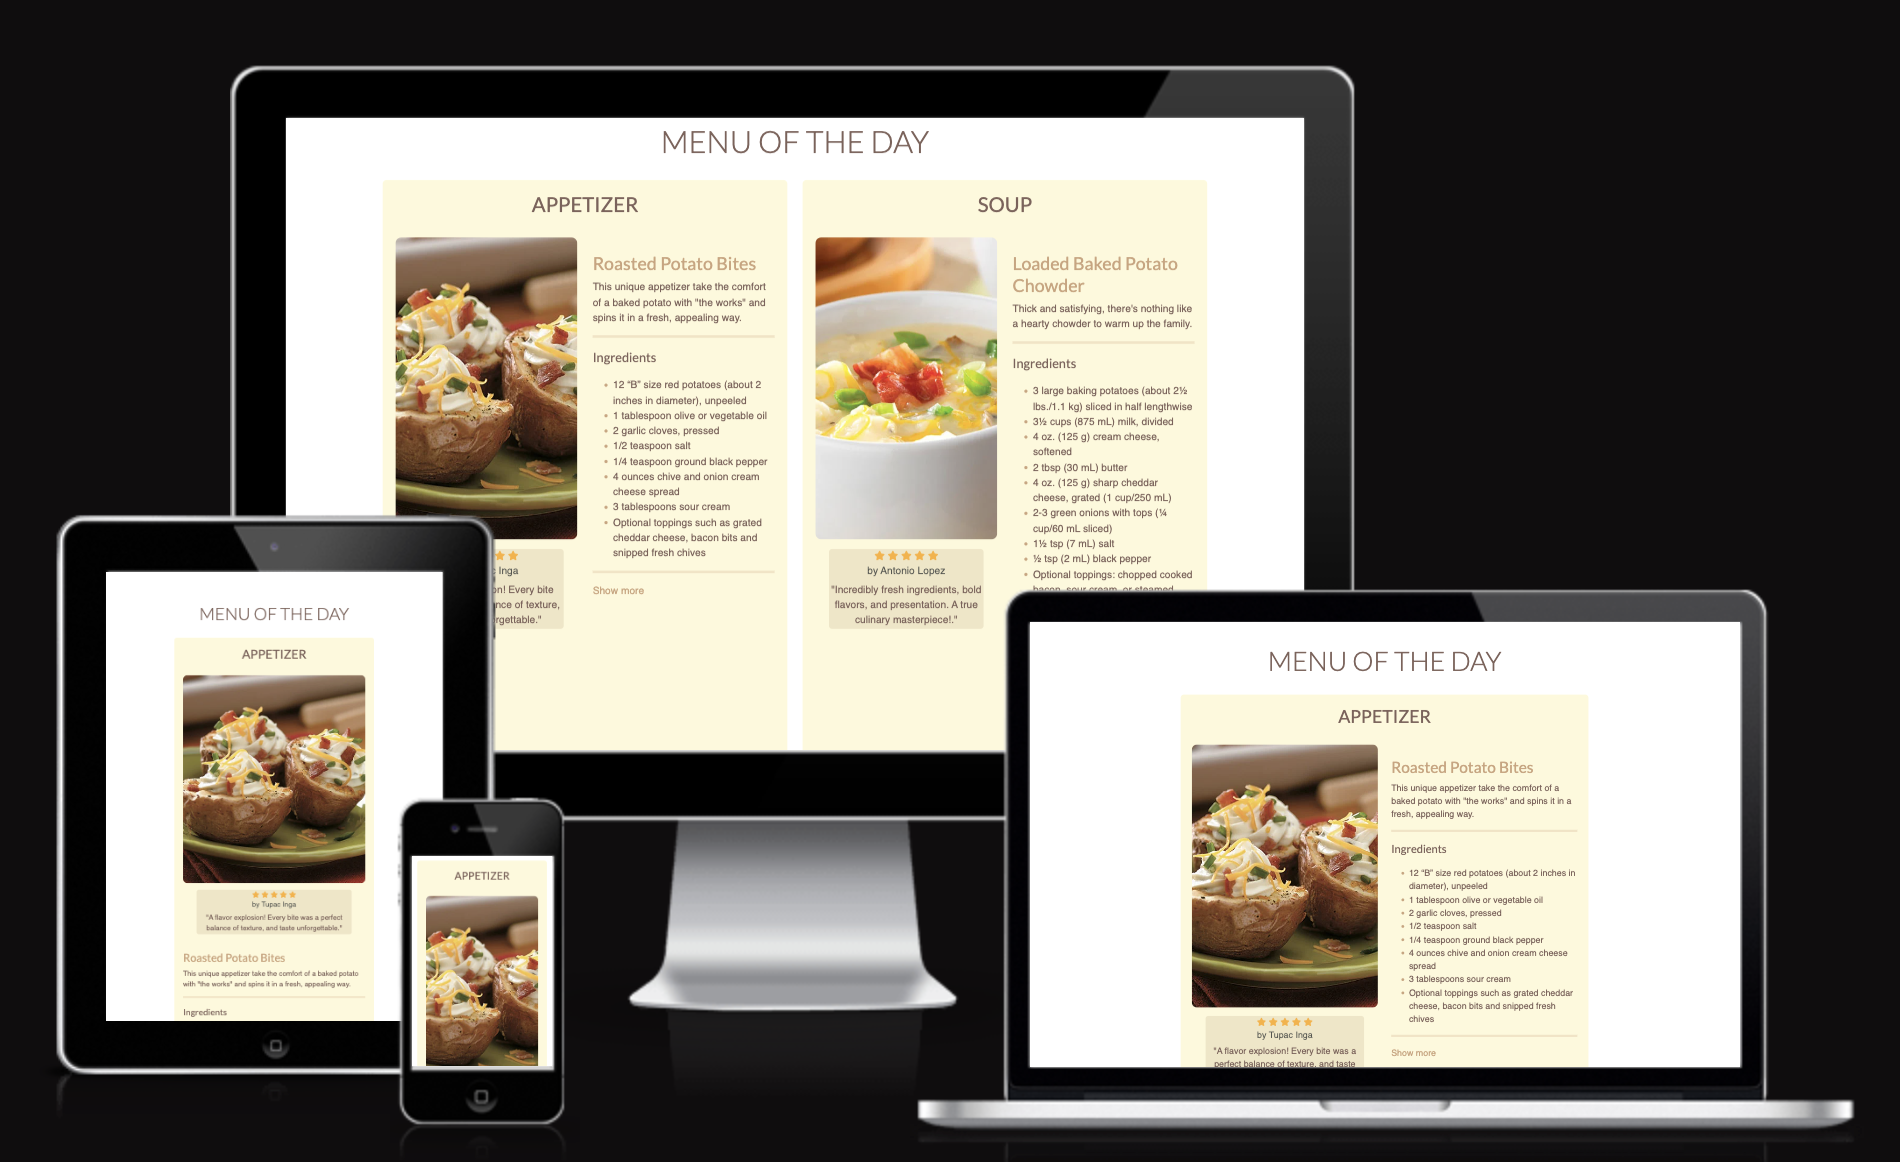
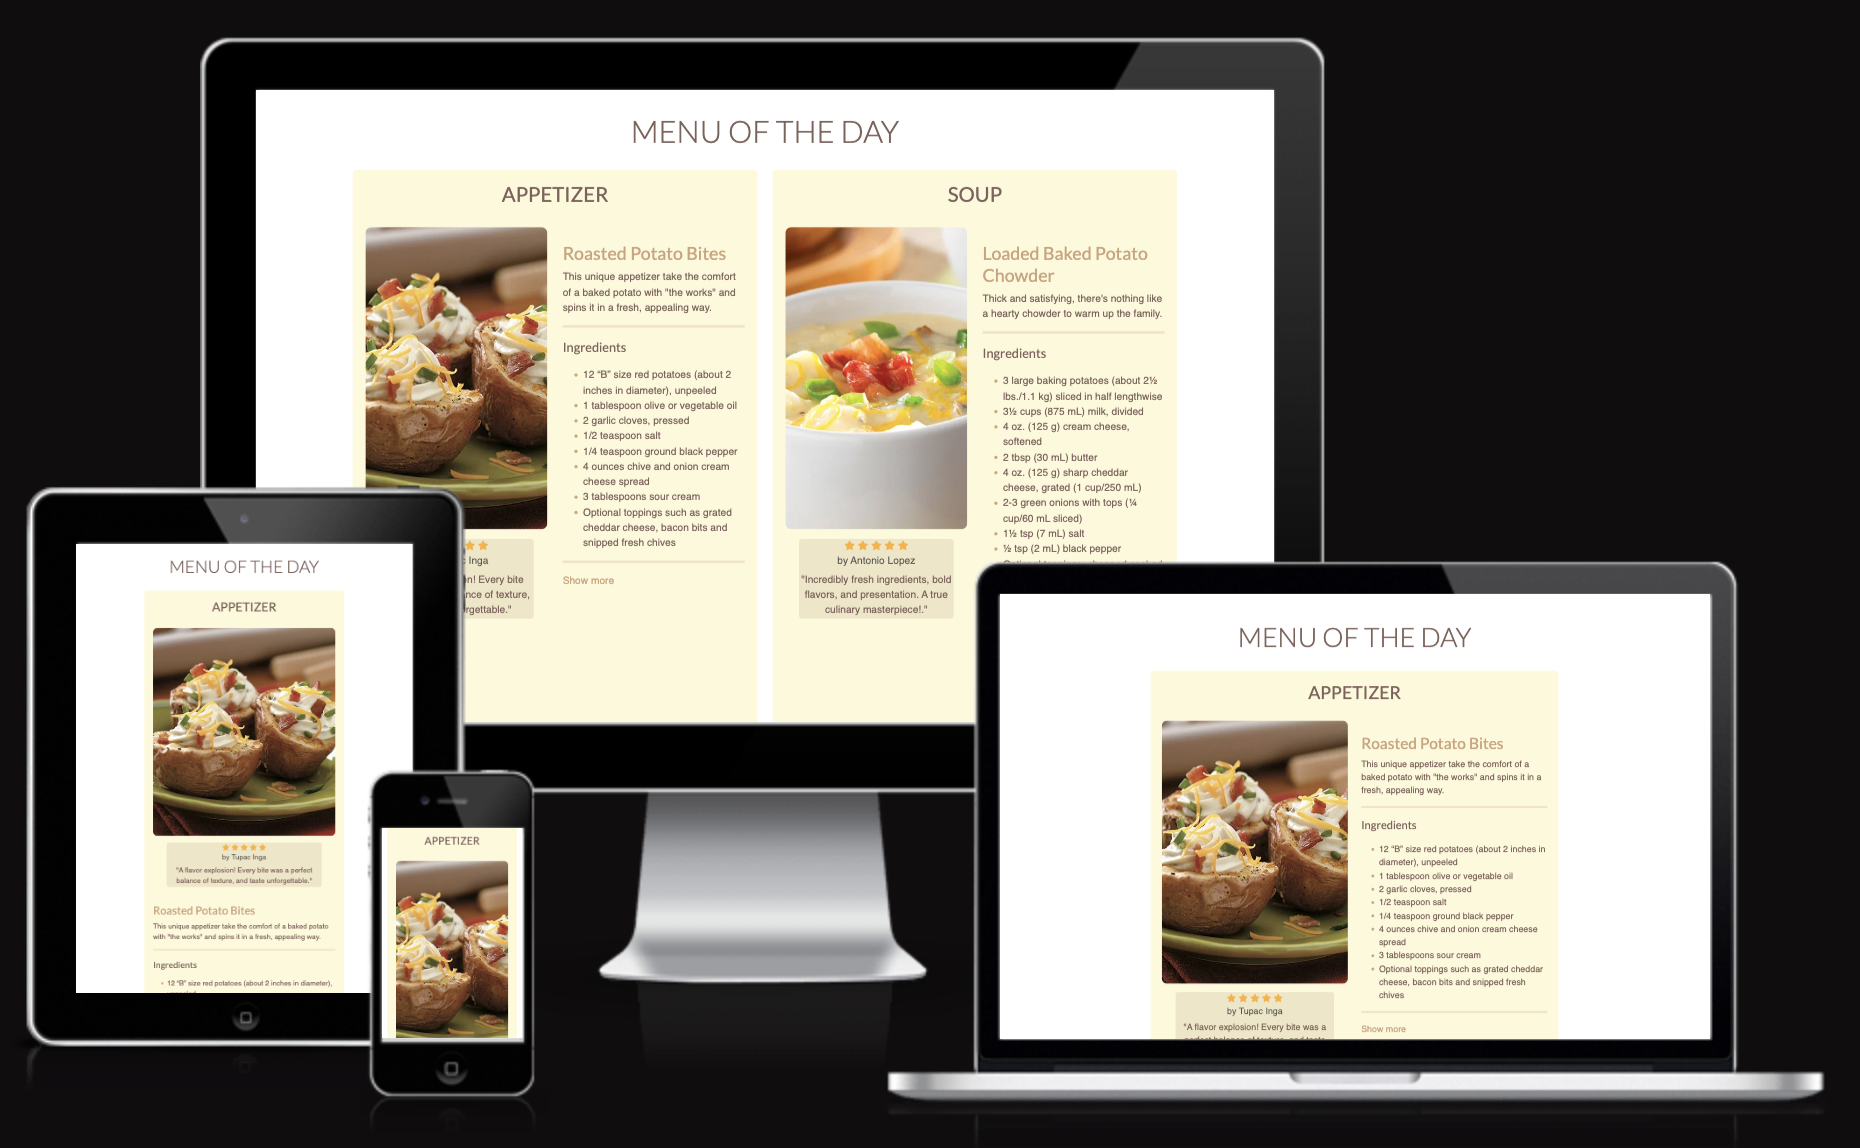
adding img to readme

Changed region(s): [[0.0, 0.0305, 0.9978, 0.9756]]

diff --git a/recipes.html b/recipes.html
@@ -110,7 +110,7 @@
 
                                 <!-- Review card -->
                                 <div class="card-body text-center">
-                                    <h5 class="card-title">
+                                    <div class="card-title">
                                         <div class="stars">
                                             <i class="fa-solid fa-star"></i>
                                             <i class="fa-solid fa-star"></i>
@@ -118,9 +118,10 @@
                                             <i class="fa-solid fa-star"></i>
                                             <i class="fa-solid fa-star"></i>
                                         </div>
-                                    </h5>
+                                    </div>
                                     <h6 class="card-subtitle mb-2 text-body-secondary">by Tupac Inga</h6>
-                                    <p class="card-text">"A flavor explosion! Every bite was a perfect balance of texture, and taste unforgettable."</p>
+                                    <p class="card-text">"A flavor explosion! Every bite was a perfect balance of
+                                        texture, and taste unforgettable."</p>
                                 </div>
                                 <!-- Finidhed Review card -->
 
@@ -212,7 +213,7 @@
                                     alt="Loaded Baked Potato Chowder">
                                 <!-- Review card -->
                                 <div class="card-body text-center">
-                                    <h5 class="card-title">
+                                    <div class="card-title">
                                         <div class="stars">
                                             <i class="fa-solid fa-star"></i>
                                             <i class="fa-solid fa-star"></i>
@@ -220,9 +221,10 @@
                                             <i class="fa-solid fa-star"></i>
                                             <i class="fa-solid fa-star"></i>
                                         </div>
-                                    </h5>
+                                    </div>
                                     <h6 class="card-subtitle mb-2 text-body-secondary">by Antonio Lopez</h6>
-                                    <p class="card-text">"Incredibly fresh ingredients, bold flavors, and presentation. A true culinary masterpiece!."</p>
+                                    <p class="card-text">"Incredibly fresh ingredients, bold flavors, and presentation.
+                                        A true culinary masterpiece!."</p>
                                 </div>
                                 <!-- Finidhed Review card -->
                             </div>
@@ -303,7 +305,7 @@
                                     alt="Waldorf Salad with a Twist">
                                 <!-- Review card -->
                                 <div class="card-body text-center">
-                                    <h5 class="card-title">
+                                    <div class="card-title">
                                         <div class="stars">
                                             <i class="fa-solid fa-star"></i>
                                             <i class="fa-solid fa-star"></i>
@@ -311,9 +313,10 @@
                                             <i class="fa-solid fa-star"></i>
                                             <i class="fa-solid fa-star"></i>
                                         </div>
-                                    </h5>
+                                    </div>
                                     <h6 class="card-subtitle mb-2 text-body-secondary">by Jason Smith</h6>
-                                    <p class="card-text">"Melt in your mouth perfection. The seasoning was spot on, and the portion was just right."</p>
+                                    <p class="card-text">"Melt in your mouth perfection. The seasoning was spot on, and
+                                        the portion was just right."</p>
                                 </div>
                                 <!-- Finidhed Review card -->
                             </div>
@@ -325,16 +328,19 @@
                                     twist!</p>
                                 <hr>
                                 <p class="lead display-7 sub-heading-color">Ingredients</p>
+
+                                <p>For Salad</p>
                                 <ul>
-                                    <strong>For the Salad</strong>
                                     <li>100g / 3.5oz walnuts - toasted & chopped</li>
                                     <li>1 packet streaky bacon</li>
                                     <li>3 apples - cored and thinly sliced</li>
                                     <li>12 new season baby potatoes - boiled then quartered</li>
                                     <li>A handful of raisins</li>
                                     <li>A handful of chives</li>
-                                    <hr>
-                                    <strong>For the Dressing</strong>
+                                </ul>
+                                <hr>
+                                <p>For the Dressing</p>
+                                <ul>
                                     <li>2 Avocados</li>
                                     <li>Extra Virgin Avocado Oil</li>
                                     <li>100g / 3.5oz Cashews</li>
@@ -377,7 +383,7 @@
                                     alt="Roasted Potato Bites">
                                 <!-- Review card -->
                                 <div class="card-body text-center">
-                                    <h5 class="card-title">
+                                    <div class="card-title">
                                         <div class="stars">
                                             <i class="fa-solid fa-star"></i>
                                             <i class="fa-solid fa-star"></i>
@@ -385,9 +391,10 @@
                                             <i class="fa-solid fa-star"></i>
                                             <i class="fa-solid fa-star"></i>
                                         </div>
-                                    </h5>
+                                    </div>
                                     <h6 class="card-subtitle mb-2 text-body-secondary">by Ivan Diaz</h6>
-                                    <p class="card-text">"Simple yet divine. Each ingredient shined, making for an extraordinary experience."</p>
+                                    <p class="card-text">"Simple yet divine. Each ingredient shined, making for an
+                                        extraordinary experience."</p>
                                 </div>
                                 <!-- Finidhed Review card -->
                             </div>
@@ -403,14 +410,19 @@
                                     <li>1 Lamb Bone In Leg (1.8 kg)</li>
                                     <li>1 bag (700g) Bite Size Medley Potatoes</li>
                                     <li>2 tbsp Avocado Oil with Rosemary</li>
-                                    <hr>
-                                    <strong>Marinade</strong>
+                                </ul>
+
+                                <p>Marinade</p>
+                                <ul>
                                     <li>3 Sprigs rosemary</li>
                                     <li>2 tbsp Avocado Oil with Rosemary</li>
                                     <li>1 Lemon, zest & juice</li>
                                     <li>8 Garlic cloves, peeled</li>
-                                    <hr>
-                                    <strong>Mint Sauce</strong>
+                                </ul>
+                                <hr>
+
+                                <p>Mint Sauce</p>
+                                <ul>
                                     <li>1 cup Mint leaves, finely chopped</li>
                                     <li>2 tbsp White Wine Vinegar</li>
                                     <li>1 cup Boiling water</li>
@@ -457,7 +469,7 @@
                                     alt="Cuban Boniatillo">
                                 <!-- Review card -->
                                 <div class="card-body text-center">
-                                    <h5 class="card-title">
+                                    <div class="card-title">
                                         <div class="stars">
                                             <i class="fa-solid fa-star"></i>
                                             <i class="fa-solid fa-star"></i>
@@ -465,9 +477,10 @@
                                             <i class="fa-solid fa-star"></i>
                                             <i class="fa-solid fa-star"></i>
                                         </div>
-                                    </h5>
+                                    </div>
                                     <h6 class="card-subtitle mb-2 text-body-secondary">by Lucia Montero</h6>
-                                    <p class="card-text">"A symphony of flavors that danced on my palate. I will be dreaming about this dessert for weeks."</p>
+                                    <p class="card-text">"A symphony of flavors that danced on my palate. I will be
+                                        dreaming about this dessert for weeks."</p>
                                 </div>
                                 <!-- Finidhed Review card -->
                             </div>
@@ -535,7 +548,7 @@
                                     alt="Irish Potato Martini">
                                 <!-- Review card -->
                                 <div class="card-body text-center">
-                                    <h5 class="card-title">
+                                    <div class="card-title">
                                         <div class="stars">
                                             <i class="fa-solid fa-star"></i>
                                             <i class="fa-solid fa-star"></i>
@@ -543,9 +556,10 @@
                                             <i class="fa-solid fa-star"></i>
                                             <i class="fa-solid fa-star"></i>
                                         </div>
-                                    </h5>
+                                    </div>
                                     <h6 class="card-subtitle mb-2 text-body-secondary">by Silvia Amadory</h6>
-                                    <p class="card-text">"A perfect drink- smooth, refreshing, and just the right kick. An instant favorite!"</p>
+                                    <p class="card-text">"A perfect drink- smooth, refreshing, and just the right kick.
+                                        An instant favorite!"</p>
                                 </div>
                                 <!-- Finidhed Review card -->
                             </div>
@@ -566,24 +580,28 @@
                                     <li>A splash of cinnamon schnapps</li>
                                     <li>Ground cinnamon and sugar for rimming the glass</li>
                                     <li>Shaved coconut or a small piece of chocolate for garnish optional</li>
-                                    <hr>
-                                    <strong>Equipment</strong>
+                                </ul>
+
+                                <p>Equipment</p>
+                                <ul>
                                     <li>Cocktail Shaker</li>
                                     <li>Martini Glass</li>
                                 </ul>
                                 <hr>
                                 <div class="content">
                                     <p class="lead display-7 sub-heading-color">Directions</p>
+                                    <p>Prepare the Glass</p>
                                     <ol>
-                                        <li><strong>Prepare the Glass</strong></li>
                                         <li>Mix a little ground cinnamon and sugar on a small plate.</li>
                                         <li>Wet the rim of your martini glass with a little water or use a lemon wedge,
                                             then dip it into the cinnamon-sugar mix to coat the rim.</li>
-                                        <li><strong>Mix the Drink</strong></li>
+                                    </ol>
+                                    <p>Mix the Drink</p>
+                                    <ol>
                                         <li>In a shaker, combine the vodka, Irish cream liqueur, coconut cream, and a
                                             splash of cinnamon schnapps with ice.</li>
                                         <li>Shake well until the mixture is well-chilled.</li>
-                                        <li><strong>Serve</strong></li>
+                                        <li>Serve</li>
                                         <li>Strain the mixture into your prepared martini glass.</li>
                                         <li>For an extra touch, garnish with shaved coconut or a small piece of
                                             chocolate on top.</li>

diff --git a/index.html b/index.html
@@ -252,7 +252,7 @@
                     <br>
                     <address>
                         <p class="display-6"><strong>Potato Research Inc.</strong></p>
-                        <i class="fa-solid fa-location-dot"></i>6919 Oceancity Ave<br>
+                        <i class="fa-solid fa-location-dot"></i>6919 Oceanside Ave<br>
                         Los Angeles, CA 90001<br>
                     </address>
                     <p>
